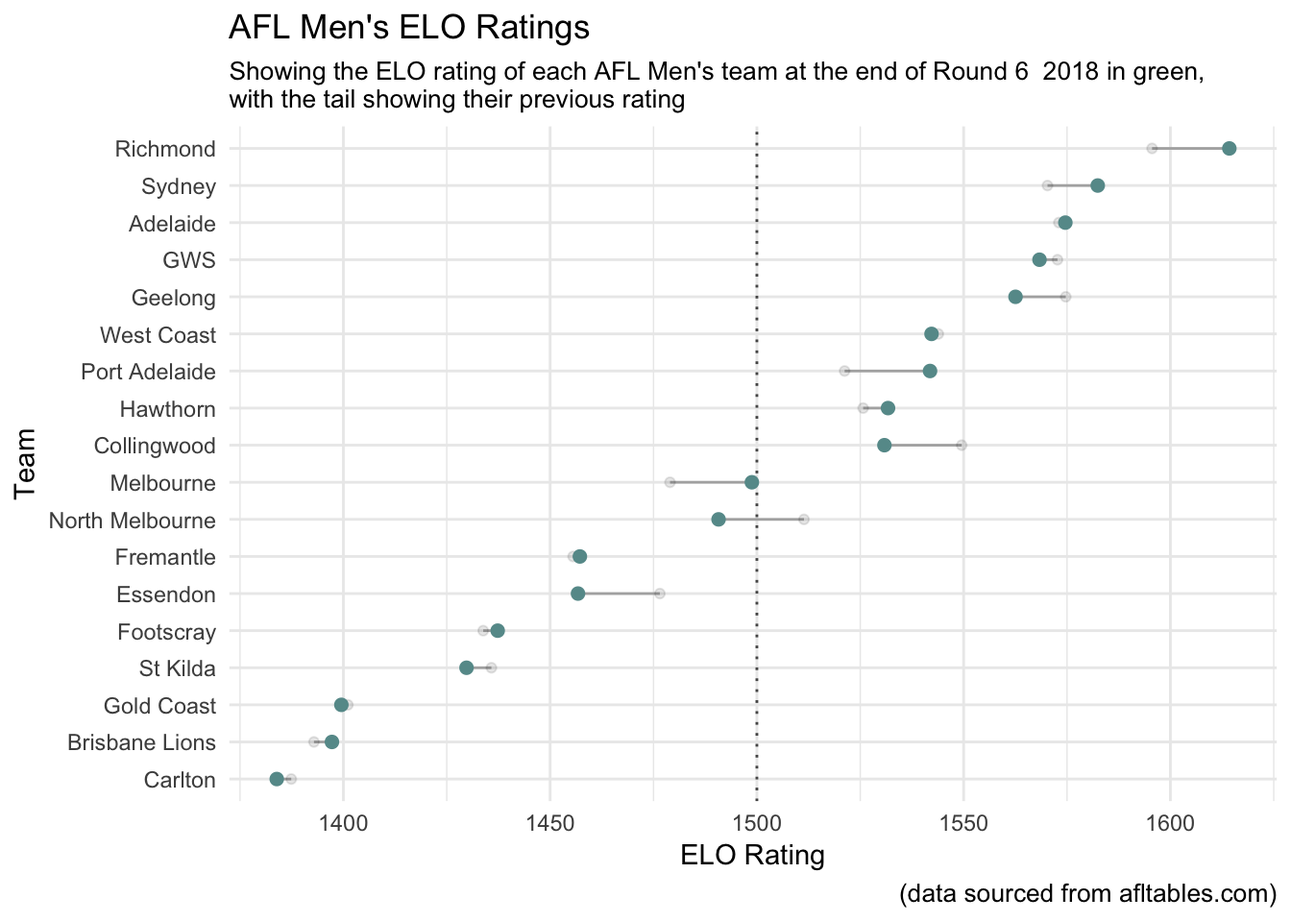
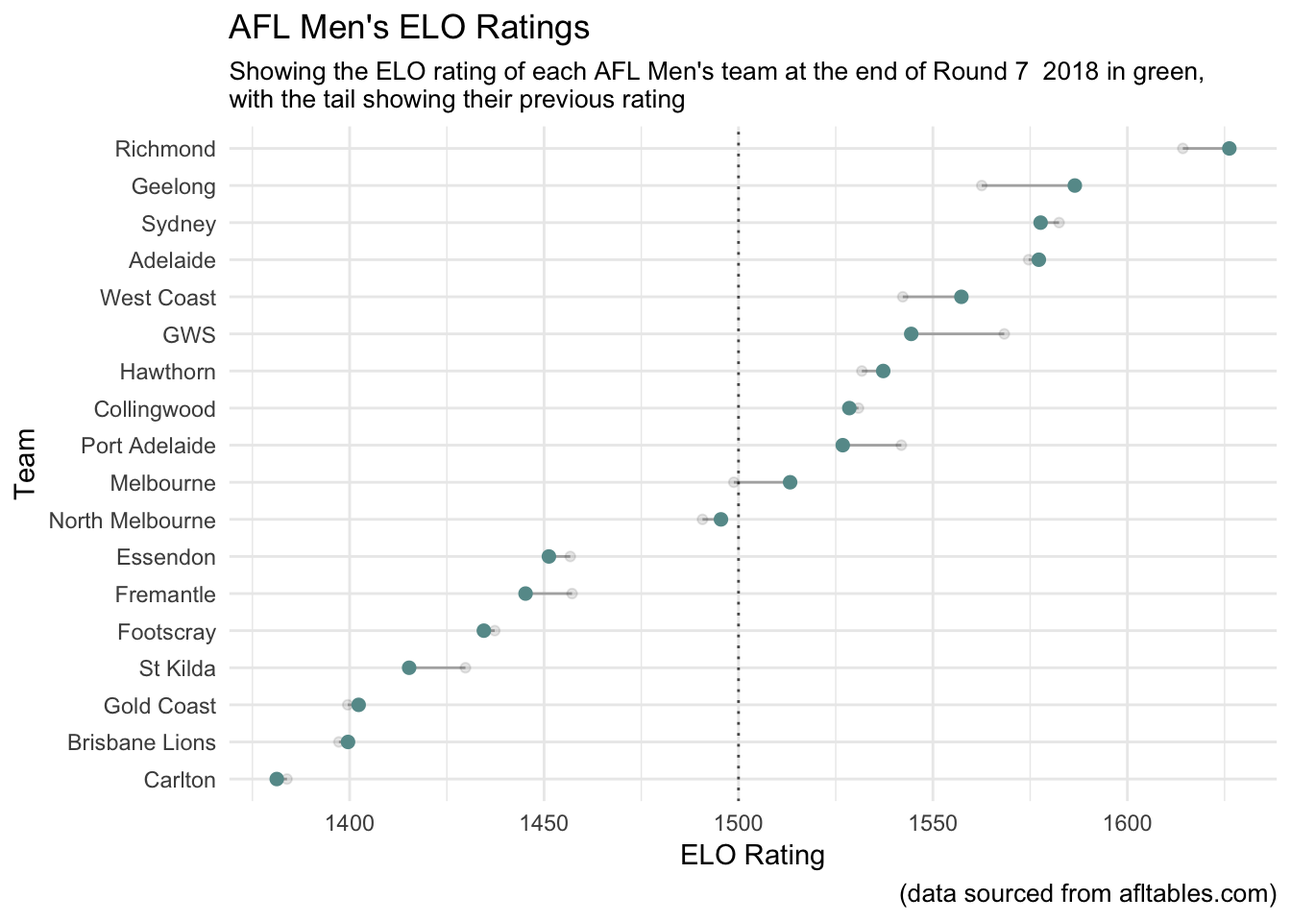
updating plots after round 7

diff --git a/static/page/aflm-ratings-and-simulations_files/figure-html/widgets/widget_formattable.html b/static/page/aflm-ratings-and-simulations_files/figure-html/widgets/widget_formattable.html
@@ -16,12 +16,12 @@
 </head>
 <body style="background-color:white;">
 <div id="htmlwidget_container">
-  <div id="htmlwidget-a8200a8e03ef808022fb" style="width:95%;height:700px;" class="datatables html-widget"></div>
+  <div id="htmlwidget-7157525cb1153722101e" style="width:95%;height:700px;" class="datatables html-widget"></div>
   <script>HTMLWidgets.pymChild = new pym.Child();HTMLWidgets.addPostRenderHandler(function(){
                                 setTimeout(function(){HTMLWidgets.pymChild.sendHeight();},100);
                             });</script>
 </div>
-<script type="application/json" data-for="htmlwidget-a8200a8e03ef808022fb">{"x":{"filter":"none","data":[["1","2","3","4","5","6","7","8","9","10","11","12","13","14","15","16","17","18"],["Richmond       ","Sydney         ","Adelaide       ","GWS            ","Hawthorn       ","Port Adelaide  ","West Coast     ","Geelong        ","Collingwood    ","Melbourne      ","North Melbourne","Fremantle      ","Essendon       ","Footscray      ","Gold Coast     ","St Kilda       ","Brisbane Lions ","Carlton        "],["<span style=\"display: inline-block; direction: rtl; border-radius: 4px; padding-right: 2px; background-color: rgba(32, 178, 170, 0.5); width: 100.00%\">1614<\/span>","<span style=\"display: inline-block; direction: rtl; border-radius: 4px; padding-right: 2px; background-color: rgba(32, 178, 170, 0.5); width: 86.15%\">1582<\/span> ","<span style=\"display: inline-block; direction: rtl; border-radius: 4px; padding-right: 2px; background-color: rgba(32, 178, 170, 0.5); width: 82.68%\">1574<\/span> ","<span style=\"display: inline-block; direction: rtl; border-radius: 4px; padding-right: 2px; background-color: rgba(32, 178, 170, 0.5); width: 80.09%\">1568<\/span> ","<span style=\"display: inline-block; direction: rtl; border-radius: 4px; padding-right: 2px; background-color: rgba(32, 178, 170, 0.5); width: 64.07%\">1531<\/span> ","<span style=\"display: inline-block; direction: rtl; border-radius: 4px; padding-right: 2px; background-color: rgba(32, 178, 170, 0.5); width: 68.40%\">1541<\/span> ","<span style=\"display: inline-block; direction: rtl; border-radius: 4px; padding-right: 2px; background-color: rgba(32, 178, 170, 0.5); width: 68.83%\">1542<\/span> ","<span style=\"display: inline-block; direction: rtl; border-radius: 4px; padding-right: 2px; background-color: rgba(32, 178, 170, 0.5); width: 77.49%\">1562<\/span> ","<span style=\"display: inline-block; direction: rtl; border-radius: 4px; padding-right: 2px; background-color: rgba(32, 178, 170, 0.5); width: 63.64%\">1530<\/span> ","<span style=\"display: inline-block; direction: rtl; border-radius: 4px; padding-right: 2px; background-color: rgba(32, 178, 170, 0.5); width: 49.78%\">1498<\/span> ","<span style=\"display: inline-block; direction: rtl; border-radius: 4px; padding-right: 2px; background-color: rgba(32, 178, 170, 0.5); width: 46.32%\">1490<\/span> ","<span style=\"display: inline-block; direction: rtl; border-radius: 4px; padding-right: 2px; background-color: rgba(32, 178, 170, 0.5); width: 32.03%\">1457<\/span> ","<span style=\"display: inline-block; direction: rtl; border-radius: 4px; padding-right: 2px; background-color: rgba(32, 178, 170, 0.5); width: 31.60%\">1456<\/span> ","<span style=\"display: inline-block; direction: rtl; border-radius: 4px; padding-right: 2px; background-color: rgba(32, 178, 170, 0.5); width: 23.38%\">1437<\/span> ","<span style=\"display: inline-block; direction: rtl; border-radius: 4px; padding-right: 2px; background-color: rgba(32, 178, 170, 0.5); width: 6.93%\">1399<\/span>  ","<span style=\"display: inline-block; direction: rtl; border-radius: 4px; padding-right: 2px; background-color: rgba(32, 178, 170, 0.5); width: 19.91%\">1429<\/span> ","<span style=\"display: inline-block; direction: rtl; border-radius: 4px; padding-right: 2px; background-color: rgba(32, 178, 170, 0.5); width: 6.06%\">1397<\/span>  ","<span style=\"display: inline-block; direction: rtl; border-radius: 4px; padding-right: 2px; background-color: rgba(32, 178, 170, 0.5); width: 0.00%\">1383<\/span>  "],["<span style=\"color: green\">18<\/span>","<span style=\"color: green\">12<\/span>","<span style=\"color: green\">1<\/span> ","<span style=\"color: red\">-4<\/span>  ","<span style=\"color: green\">6<\/span> ","<span style=\"color: green\">20<\/span>","<span style=\"color: red\">-1<\/span>  ","<span style=\"color: red\">-12<\/span> ","<span style=\"color: red\">-18<\/span> ","<span style=\"color: green\">19<\/span>","<span style=\"color: red\">-20<\/span> ","<span style=\"color: green\">1<\/span> ","<span style=\"color: red\">-19<\/span> ","<span style=\"color: green\">3<\/span> ","<span style=\"color: red\">-1<\/span>  ","<span style=\"color: red\">-6<\/span>  ","<span style=\"color: green\">4<\/span> ","<span style=\"color: red\">-3<\/span>  "],["18.9","16.3","14.8","14.5","14.5","14.3","14.2","13.9","13.9","11.2","9.5","9.1","7.0","6.8","6.6","6.1","3.3","3.1"],["<span style=\"display: block; padding: 0 4px; border-radius: 4px; background-color: #add8e6\">94.9%<\/span>","<span style=\"display: block; padding: 0 4px; border-radius: 4px; background-color: #b2dae7\">88.9%<\/span>","<span style=\"display: block; padding: 0 4px; border-radius: 4px; background-color: #badee9\">79.9%<\/span>","<span style=\"display: block; padding: 0 4px; border-radius: 4px; background-color: #bcdfea\">76.8%<\/span>","<span style=\"display: block; padding: 0 4px; border-radius: 4px; background-color: #bfe0eb\">73.8%<\/span>","<span style=\"display: block; padding: 0 4px; border-radius: 4px; background-color: #c1e1ec\">71.2%<\/span>","<span style=\"display: block; padding: 0 4px; border-radius: 4px; background-color: #c1e1ec\">71.9%<\/span>","<span style=\"display: block; padding: 0 4px; border-radius: 4px; background-color: #bfe0eb\">74.3%<\/span>","<span style=\"display: block; padding: 0 4px; border-radius: 4px; background-color: #c2e2ec\">70.6%<\/span>","<span style=\"display: block; padding: 0 4px; border-radius: 4px; background-color: #e0f0f5\">36.1%<\/span>","<span style=\"display: block; padding: 0 4px; border-radius: 4px; background-color: #ecf6f9\">22.2%<\/span>","<span style=\"display: block; padding: 0 4px; border-radius: 4px; background-color: #f1f8fa\">16.4%<\/span>","<span style=\"display: block; padding: 0 4px; border-radius: 4px; background-color: #f9fcfd\">7.5%<\/span> ","<span style=\"display: block; padding: 0 4px; border-radius: 4px; background-color: #fafcfd\">5.9%<\/span> ","<span style=\"display: block; padding: 0 4px; border-radius: 4px; background-color: #fdfefe\">2.7%<\/span> ","<span style=\"display: block; padding: 0 4px; border-radius: 4px; background-color: #fbfdfe\">4.7%<\/span> ","<span style=\"display: block; padding: 0 4px; border-radius: 4px; background-color: #fefefe\">1.1%<\/span> ","<span style=\"display: block; padding: 0 4px; border-radius: 4px; background-color: #ffffff\">1.0%<\/span> "],["<span style=\"display: block; padding: 0 4px; border-radius: 4px; background-color: #add8e6\">82.8%<\/span>","<span style=\"display: block; padding: 0 4px; border-radius: 4px; background-color: #c3e2ec\">59.8%<\/span>","<span style=\"display: block; padding: 0 4px; border-radius: 4px; background-color: #d4eaf2\">42.8%<\/span>","<span style=\"display: block; padding: 0 4px; border-radius: 4px; background-color: #dbedf4\">36.2%<\/span>","<span style=\"display: block; padding: 0 4px; border-radius: 4px; background-color: #d8ecf3\">38.4%<\/span>","<span style=\"display: block; padding: 0 4px; border-radius: 4px; background-color: #ddeef4\">34.3%<\/span>","<span style=\"display: block; padding: 0 4px; border-radius: 4px; background-color: #e0f0f5\">30.4%<\/span>","<span style=\"display: block; padding: 0 4px; border-radius: 4px; background-color: #e2f1f6\">29.0%<\/span>","<span style=\"display: block; padding: 0 4px; border-radius: 4px; background-color: #e2f1f6\">28.6%<\/span>","<span style=\"display: block; padding: 0 4px; border-radius: 4px; background-color: #f5fafb\">10.0%<\/span>","<span style=\"display: block; padding: 0 4px; border-radius: 4px; background-color: #fbfdfd\">3.9%<\/span> ","<span style=\"display: block; padding: 0 4px; border-radius: 4px; background-color: #fdfefe\">2.0%<\/span> ","<span style=\"display: block; padding: 0 4px; border-radius: 4px; background-color: #fefefe\">0.9%<\/span> ","<span style=\"display: block; padding: 0 4px; border-radius: 4px; background-color: #fefefe\">0.4%<\/span> ","<span style=\"display: block; padding: 0 4px; border-radius: 4px; background-color: #fefefe\">0.1%<\/span> ","<span style=\"display: block; padding: 0 4px; border-radius: 4px; background-color: #fefefe\">0.4%<\/span> ","<span style=\"display: block; padding: 0 4px; border-radius: 4px; background-color: #fefefe\">0.1%<\/span> ","<span style=\"display: block; padding: 0 4px; border-radius: 4px; background-color: #ffffff\">0.0%<\/span> "],["<span style=\"display: block; padding: 0 4px; border-radius: 4px; background-color: #add8e6\">57.2%<\/span>","<span style=\"display: block; padding: 0 4px; border-radius: 4px; background-color: #eef7fa\">11.4%<\/span>","<span style=\"display: block; padding: 0 4px; border-radius: 4px; background-color: #f7fbfc\">4.9%<\/span> ","<span style=\"display: block; padding: 0 4px; border-radius: 4px; background-color: #f9fcfd\">4.0%<\/span> ","<span style=\"display: block; padding: 0 4px; border-radius: 4px; background-color: #f8fcfd\">4.3%<\/span> ","<span style=\"display: block; padding: 0 4px; border-radius: 4px; background-color: #f7fbfc\">5.1%<\/span> ","<span style=\"display: block; padding: 0 4px; border-radius: 4px; background-color: #f7fbfc\">5.2%<\/span> ","<span style=\"display: block; padding: 0 4px; border-radius: 4px; background-color: #f9fcfd\">4.0%<\/span> ","<span style=\"display: block; padding: 0 4px; border-radius: 4px; background-color: #fbfdfe\">2.1%<\/span> ","<span style=\"display: block; padding: 0 4px; border-radius: 4px; background-color: #fcfdfe\">1.6%<\/span> ","<span style=\"display: block; padding: 0 4px; border-radius: 4px; background-color: #fefefe\">0.1%<\/span> ","<span style=\"display: block; padding: 0 4px; border-radius: 4px; background-color: #fefefe\">0.1%<\/span> ","<span style=\"display: block; padding: 0 4px; border-radius: 4px; background-color: #fefefe\">0.0%<\/span> ","<span style=\"display: block; padding: 0 4px; border-radius: 4px; background-color: #ffffff\">0.0%<\/span> ","<span style=\"display: block; padding: 0 4px; border-radius: 4px; background-color: #ffffff\">0.0%<\/span> ","<span style=\"display: block; padding: 0 4px; border-radius: 4px; background-color: #fefefe\">0.0%<\/span> ","<span style=\"display: block; padding: 0 4px; border-radius: 4px; background-color: #ffffff\">0.0%<\/span> ","<span style=\"display: block; padding: 0 4px; border-radius: 4px; background-color: #ffffff\">0.0%<\/span> "]],"container":"<table class=\"display\">\n  <thead>\n    <tr>\n      <th> <\/th>\n      <th>Team<\/th>\n      <th>ELO<\/th>\n      <th>ELO.change<\/th>\n      <th>Wins<\/th>\n      <th>Top.8<\/th>\n      <th>Top.4<\/th>\n      <th>Top.1<\/th>\n    <\/tr>\n  <\/thead>\n<\/table>","options":{"dom":"t","pageLength":18,"order":[],"autoWidth":false,"orderClasses":false,"columnDefs":[{"orderable":false,"targets":0}],"lengthMenu":[10,18,25,50,100]}},"evals":[],"jsHooks":[]}</script>
-<script type="application/htmlwidget-sizing" data-for="htmlwidget-a8200a8e03ef808022fb">{"viewer":{"width":"95%","height":700,"padding":0,"fill":false},"browser":{"width":"95%","height":700,"padding":0,"fill":false}}</script>
+<script type="application/json" data-for="htmlwidget-7157525cb1153722101e">{"x":{"filter":"none","data":[["1","2","3","4","5","6","7","8","9","10","11","12","13","14","15","16","17","18"],["Richmond       ","West Coast     ","Hawthorn       ","Geelong        ","Sydney         ","Adelaide       ","Collingwood    ","Port Adelaide  ","GWS            ","Melbourne      ","North Melbourne","Fremantle      ","Footscray      ","Gold Coast     ","Essendon       ","St Kilda       ","Carlton        ","Brisbane Lions "],["<span style=\"display: inline-block; direction: rtl; border-radius: 4px; padding-right: 2px; background-color: rgba(32, 178, 170, 0.5); width: 100.00%\">1626<\/span>","<span style=\"display: inline-block; direction: rtl; border-radius: 4px; padding-right: 2px; background-color: rgba(32, 178, 170, 0.5); width: 71.84%\">1557<\/span> ","<span style=\"display: inline-block; direction: rtl; border-radius: 4px; padding-right: 2px; background-color: rgba(32, 178, 170, 0.5); width: 63.67%\">1537<\/span> ","<span style=\"display: inline-block; direction: rtl; border-radius: 4px; padding-right: 2px; background-color: rgba(32, 178, 170, 0.5); width: 83.67%\">1586<\/span> ","<span style=\"display: inline-block; direction: rtl; border-radius: 4px; padding-right: 2px; background-color: rgba(32, 178, 170, 0.5); width: 80.00%\">1577<\/span> ","<span style=\"display: inline-block; direction: rtl; border-radius: 4px; padding-right: 2px; background-color: rgba(32, 178, 170, 0.5); width: 80.00%\">1577<\/span> ","<span style=\"display: inline-block; direction: rtl; border-radius: 4px; padding-right: 2px; background-color: rgba(32, 178, 170, 0.5); width: 60.00%\">1528<\/span> ","<span style=\"display: inline-block; direction: rtl; border-radius: 4px; padding-right: 2px; background-color: rgba(32, 178, 170, 0.5); width: 59.18%\">1526<\/span> ","<span style=\"display: inline-block; direction: rtl; border-radius: 4px; padding-right: 2px; background-color: rgba(32, 178, 170, 0.5); width: 66.53%\">1544<\/span> ","<span style=\"display: inline-block; direction: rtl; border-radius: 4px; padding-right: 2px; background-color: rgba(32, 178, 170, 0.5); width: 53.88%\">1513<\/span> ","<span style=\"display: inline-block; direction: rtl; border-radius: 4px; padding-right: 2px; background-color: rgba(32, 178, 170, 0.5); width: 46.53%\">1495<\/span> ","<span style=\"display: inline-block; direction: rtl; border-radius: 4px; padding-right: 2px; background-color: rgba(32, 178, 170, 0.5); width: 26.12%\">1445<\/span> ","<span style=\"display: inline-block; direction: rtl; border-radius: 4px; padding-right: 2px; background-color: rgba(32, 178, 170, 0.5); width: 21.63%\">1434<\/span> ","<span style=\"display: inline-block; direction: rtl; border-radius: 4px; padding-right: 2px; background-color: rgba(32, 178, 170, 0.5); width: 8.57%\">1402<\/span>  ","<span style=\"display: inline-block; direction: rtl; border-radius: 4px; padding-right: 2px; background-color: rgba(32, 178, 170, 0.5); width: 28.57%\">1451<\/span> ","<span style=\"display: inline-block; direction: rtl; border-radius: 4px; padding-right: 2px; background-color: rgba(32, 178, 170, 0.5); width: 13.88%\">1415<\/span> ","<span style=\"display: inline-block; direction: rtl; border-radius: 4px; padding-right: 2px; background-color: rgba(32, 178, 170, 0.5); width: 0.00%\">1381<\/span>  ","<span style=\"display: inline-block; direction: rtl; border-radius: 4px; padding-right: 2px; background-color: rgba(32, 178, 170, 0.5); width: 7.35%\">1399<\/span>  "],["<span style=\"color: green\">11<\/span>","<span style=\"color: green\">15<\/span>","<span style=\"color: green\">5<\/span> ","<span style=\"color: green\">23<\/span>","<span style=\"color: red\">-4<\/span>  ","<span style=\"color: green\">2<\/span> ","<span style=\"color: red\">-2<\/span>  ","<span style=\"color: red\">-15<\/span> ","<span style=\"color: red\">-23<\/span> ","<span style=\"color: green\">14<\/span>","<span style=\"color: green\">4<\/span> ","<span style=\"color: red\">-11<\/span> ","<span style=\"color: red\">-2<\/span>  ","<span style=\"color: green\">2<\/span> ","<span style=\"color: red\">-5<\/span>  ","<span style=\"color: red\">-14<\/span> ","<span style=\"color: red\">-2<\/span>  ","<span style=\"color: green\">2<\/span> "],["19.5","15.3","15.1","15.0","15.0","15.0","13.8","13.4","13.2","12.0","10.8","8.7","6.7","6.6","6.4","5.2","3.3","3.2"],["<span style=\"display: block; padding: 0 4px; border-radius: 4px; background-color: #add8e6\">97.4%<\/span>","<span style=\"display: block; padding: 0 4px; border-radius: 4px; background-color: #badeea\">81.8%<\/span>","<span style=\"display: block; padding: 0 4px; border-radius: 4px; background-color: #bbdfea\">79.9%<\/span>","<span style=\"display: block; padding: 0 4px; border-radius: 4px; background-color: #b6dce8\">86.5%<\/span>","<span style=\"display: block; padding: 0 4px; border-radius: 4px; background-color: #bbdeea\">80.1%<\/span>","<span style=\"display: block; padding: 0 4px; border-radius: 4px; background-color: #bbdfea\">79.7%<\/span>","<span style=\"display: block; padding: 0 4px; border-radius: 4px; background-color: #c4e3ed\">69.6%<\/span>","<span style=\"display: block; padding: 0 4px; border-radius: 4px; background-color: #cae6ef\">62.3%<\/span>","<span style=\"display: block; padding: 0 4px; border-radius: 4px; background-color: #cbe6ef\">60.8%<\/span>","<span style=\"display: block; padding: 0 4px; border-radius: 4px; background-color: #dbeef4\">42.3%<\/span>","<span style=\"display: block; padding: 0 4px; border-radius: 4px; background-color: #e2f1f6\">34.1%<\/span>","<span style=\"display: block; padding: 0 4px; border-radius: 4px; background-color: #f5fafc\">12.1%<\/span>","<span style=\"display: block; padding: 0 4px; border-radius: 4px; background-color: #fbfdfd\">4.8%<\/span> ","<span style=\"display: block; padding: 0 4px; border-radius: 4px; background-color: #fefefe\">1.7%<\/span> ","<span style=\"display: block; padding: 0 4px; border-radius: 4px; background-color: #fcfdfe\">3.7%<\/span> ","<span style=\"display: block; padding: 0 4px; border-radius: 4px; background-color: #fefefe\">1.7%<\/span> ","<span style=\"display: block; padding: 0 4px; border-radius: 4px; background-color: #fefefe\">1.0%<\/span> ","<span style=\"display: block; padding: 0 4px; border-radius: 4px; background-color: #ffffff\">0.5%<\/span> "],["<span style=\"display: block; padding: 0 4px; border-radius: 4px; background-color: #add8e6\">88.3%<\/span>","<span style=\"display: block; padding: 0 4px; border-radius: 4px; background-color: #d7ecf3\">42.0%<\/span>","<span style=\"display: block; padding: 0 4px; border-radius: 4px; background-color: #d5ebf2\">45.1%<\/span>","<span style=\"display: block; padding: 0 4px; border-radius: 4px; background-color: #d7ecf2\">42.9%<\/span>","<span style=\"display: block; padding: 0 4px; border-radius: 4px; background-color: #d6ebf2\">43.4%<\/span>","<span style=\"display: block; padding: 0 4px; border-radius: 4px; background-color: #d3eaf1\">46.8%<\/span>","<span style=\"display: block; padding: 0 4px; border-radius: 4px; background-color: #e5f3f7\">27.0%<\/span>","<span style=\"display: block; padding: 0 4px; border-radius: 4px; background-color: #e8f4f8\">24.5%<\/span>","<span style=\"display: block; padding: 0 4px; border-radius: 4px; background-color: #eaf5f8\">21.6%<\/span>","<span style=\"display: block; padding: 0 4px; border-radius: 4px; background-color: #f5fafc\">10.1%<\/span>","<span style=\"display: block; padding: 0 4px; border-radius: 4px; background-color: #f9fcfd\">6.2%<\/span> ","<span style=\"display: block; padding: 0 4px; border-radius: 4px; background-color: #fdfefe\">1.4%<\/span> ","<span style=\"display: block; padding: 0 4px; border-radius: 4px; background-color: #fefefe\">0.3%<\/span> ","<span style=\"display: block; padding: 0 4px; border-radius: 4px; background-color: #fefefe\">0.0%<\/span> ","<span style=\"display: block; padding: 0 4px; border-radius: 4px; background-color: #fefefe\">0.3%<\/span> ","<span style=\"display: block; padding: 0 4px; border-radius: 4px; background-color: #fefefe\">0.1%<\/span> ","<span style=\"display: block; padding: 0 4px; border-radius: 4px; background-color: #fefefe\">0.0%<\/span> ","<span style=\"display: block; padding: 0 4px; border-radius: 4px; background-color: #ffffff\">0.0%<\/span> "],["<span style=\"display: block; padding: 0 4px; border-radius: 4px; background-color: #add8e6\">65.2%<\/span>","<span style=\"display: block; padding: 0 4px; border-radius: 4px; background-color: #f5fafc\">7.7%<\/span> ","<span style=\"display: block; padding: 0 4px; border-radius: 4px; background-color: #f9fcfd\">4.6%<\/span> ","<span style=\"display: block; padding: 0 4px; border-radius: 4px; background-color: #f6fbfc\">6.7%<\/span> ","<span style=\"display: block; padding: 0 4px; border-radius: 4px; background-color: #f9fcfd\">4.8%<\/span> ","<span style=\"display: block; padding: 0 4px; border-radius: 4px; background-color: #f8fbfd\">5.2%<\/span> ","<span style=\"display: block; padding: 0 4px; border-radius: 4px; background-color: #fcfdfe\">1.7%<\/span> ","<span style=\"display: block; padding: 0 4px; border-radius: 4px; background-color: #fcfdfe\">1.9%<\/span> ","<span style=\"display: block; padding: 0 4px; border-radius: 4px; background-color: #fdfefe\">0.9%<\/span> ","<span style=\"display: block; padding: 0 4px; border-radius: 4px; background-color: #fdfefe\">1.2%<\/span> ","<span style=\"display: block; padding: 0 4px; border-radius: 4px; background-color: #fefefe\">0.1%<\/span> ","<span style=\"display: block; padding: 0 4px; border-radius: 4px; background-color: #fefefe\">0.0%<\/span> ","<span style=\"display: block; padding: 0 4px; border-radius: 4px; background-color: #ffffff\">0.0%<\/span> ","<span style=\"display: block; padding: 0 4px; border-radius: 4px; background-color: #ffffff\">0.0%<\/span> ","<span style=\"display: block; padding: 0 4px; border-radius: 4px; background-color: #fefefe\">0.0%<\/span> ","<span style=\"display: block; padding: 0 4px; border-radius: 4px; background-color: #ffffff\">0.0%<\/span> ","<span style=\"display: block; padding: 0 4px; border-radius: 4px; background-color: #ffffff\">0.0%<\/span> ","<span style=\"display: block; padding: 0 4px; border-radius: 4px; background-color: #ffffff\">0.0%<\/span> "]],"container":"<table class=\"display\">\n  <thead>\n    <tr>\n      <th> <\/th>\n      <th>Team<\/th>\n      <th>ELO<\/th>\n      <th>ELO.change<\/th>\n      <th>Wins<\/th>\n      <th>Top.8<\/th>\n      <th>Top.4<\/th>\n      <th>Top.1<\/th>\n    <\/tr>\n  <\/thead>\n<\/table>","options":{"dom":"t","pageLength":18,"order":[],"autoWidth":false,"orderClasses":false,"columnDefs":[{"orderable":false,"targets":0}],"lengthMenu":[10,18,25,50,100]}},"evals":[],"jsHooks":[]}</script>
+<script type="application/htmlwidget-sizing" data-for="htmlwidget-7157525cb1153722101e">{"viewer":{"width":"95%","height":700,"padding":0,"fill":false},"browser":{"width":"95%","height":700,"padding":0,"fill":false}}</script>
 </body>
 </html>

diff --git a/content/page/aflm-current-tips.html b/content/page/aflm-current-tips.html
@@ -41,45 +41,160 @@ Result
 <tbody>
 <tr>
 <td style="text-align:right;">
-Fri, 04
+Fri, 11
 </td>
 <td style="text-align:right;">
-Kardinia Park
+M.C.G.
 </td>
 <td style="text-align:right;">
-<span style="font-weight: bold">Geelong </span>
+<span style="font-weight: bold">Hawthorn </span>
 </td>
 <td style="text-align:right;">
-<span>GWS </span>
+<span>Sydney </span>
 </td>
 <td style="text-align:right;">
-10
+3
 </td>
 <td style="text-align:right;">
-57.2%
+52.0%
 </td>
 <td style="text-align:right;">
-Geelong by 10
+Hawthorn by 3
 </td>
 </tr>
 <tr>
 <td style="text-align:right;">
-Sat, 05
+Sat, 12
 </td>
 <td style="text-align:right;">
-Eureka Stadium
+Blacktown
 </td>
 <td style="text-align:right;">
-<span style="font-weight: bold">Footscray </span>
+<span style="font-weight: bold">GWS </span>
+</td>
+<td style="text-align:right;">
+<span>West Coast </span>
+</td>
+<td style="text-align:right;">
+8
+</td>
+<td style="text-align:right;">
+55.6%
+</td>
+<td style="text-align:right;">
+GWS by 8
+</td>
+</tr>
+<tr>
+<td style="text-align:right;">
+Sat, 12
+</td>
+<td style="text-align:right;">
+M.C.G.
+</td>
+<td style="text-align:right;">
+<span>Carlton </span>
+</td>
+<td style="text-align:right;">
+<span style="font-weight: bold">Essendon </span>
+</td>
+<td style="text-align:right;">
+-9
+</td>
+<td style="text-align:right;">
+42.9%
+</td>
+<td style="text-align:right;">
+Essendon by 9
+</td>
+</tr>
+<tr>
+<td style="text-align:right;">
+Sat, 12
+</td>
+<td style="text-align:right;">
+Gabba
 </td>
 <td style="text-align:right;">
 <span>Gold Coast </span>
 </td>
 <td style="text-align:right;">
+<span style="font-weight: bold">Melbourne </span>
+</td>
+<td style="text-align:right;">
+-10
+</td>
+<td style="text-align:right;">
+41.9%
+</td>
+<td style="text-align:right;">
+Melbourne by 10
+</td>
+</tr>
+<tr>
+<td style="text-align:right;">
+Sat, 12
+</td>
+<td style="text-align:right;">
+Adelaide Oval
+</td>
+<td style="text-align:right;">
+<span>Port Adelaide </span>
+</td>
+<td style="text-align:right;">
+<span style="font-weight: bold">Adelaide </span>
+</td>
+<td style="text-align:right;">
+-5
+</td>
+<td style="text-align:right;">
+45.6%
+</td>
+<td style="text-align:right;">
+Adelaide by 5
+</td>
+</tr>
+<tr>
+<td style="text-align:right;">
+Sat, 12
+</td>
+<td style="text-align:right;">
+Perth Stadium
+</td>
+<td style="text-align:right;">
+<span style="font-weight: bold">Fremantle </span>
+</td>
+<td style="text-align:right;">
+<span>St Kilda </span>
+</td>
+<td style="text-align:right;">
+17
+</td>
+<td style="text-align:right;">
+61.9%
+</td>
+<td style="text-align:right;">
+Fremantle by 17
+</td>
+</tr>
+<tr>
+<td style="text-align:right;">
+Sat, 12
+</td>
+<td style="text-align:right;">
+Docklands
+</td>
+<td style="text-align:right;">
+<span style="font-weight: bold">Footscray </span>
+</td>
+<td style="text-align:right;">
+<span>Brisbane Lions</span>
+</td>
+<td style="text-align:right;">
 18
 </td>
 <td style="text-align:right;">
-62.8%
+62.5%
 </td>
 <td style="text-align:right;">
 Footscray by 18
@@ -87,163 +202,48 @@ Footscray by 18
 </tr>
 <tr>
 <td style="text-align:right;">
-Sat, 05
-</td>
-<td style="text-align:right;">
-M.C.G.
-</td>
-<td style="text-align:right;">
-<span>Essendon </span>
-</td>
-<td style="text-align:right;">
-<span style="font-weight: bold">Hawthorn </span>
-</td>
-<td style="text-align:right;">
--10
-</td>
-<td style="text-align:right;">
-42.1%
-</td>
-<td style="text-align:right;">
-Hawthorn by 10
-</td>
-</tr>
-<tr>
-<td style="text-align:right;">
-Sat, 05
-</td>
-<td style="text-align:right;">
-Perth Stadium
-</td>
-<td style="text-align:right;">
-<span style="font-weight: bold">West Coast </span>
-</td>
-<td style="text-align:right;">
-<span>Port Adelaide </span>
-</td>
-<td style="text-align:right;">
-11
-</td>
-<td style="text-align:right;">
-57.9%
-</td>
-<td style="text-align:right;">
-West Coast by 11
-</td>
-</tr>
-<tr>
-<td style="text-align:right;">
-Sat, 05
-</td>
-<td style="text-align:right;">
-Adelaide Oval
-</td>
-<td style="text-align:right;">
-<span style="font-weight: bold">Adelaide </span>
-</td>
-<td style="text-align:right;">
-<span>Carlton </span>
-</td>
-<td style="text-align:right;">
-48
-</td>
-<td style="text-align:right;">
-80.6%
-</td>
-<td style="text-align:right;">
-Adelaide by 48
-</td>
-</tr>
-<tr>
-<td style="text-align:right;">
-Sat, 05
-</td>
-<td style="text-align:right;">
-S.C.G.
-</td>
-<td style="text-align:right;">
-<span style="font-weight: bold">Sydney </span>
-</td>
-<td style="text-align:right;">
-<span>North Melbourne</span>
-</td>
-<td style="text-align:right;">
-29
-</td>
-<td style="text-align:right;">
-70.1%
-</td>
-<td style="text-align:right;">
-Sydney by 29
-</td>
-</tr>
-<tr>
-<td style="text-align:right;">
-Sun, 06
-</td>
-<td style="text-align:right;">
-M.C.G.
-</td>
-<td style="text-align:right;">
-<span style="font-weight: bold">Richmond </span>
-</td>
-<td style="text-align:right;">
-<span>Fremantle </span>
-</td>
-<td style="text-align:right;">
-41
-</td>
-<td style="text-align:right;">
-77.2%
-</td>
-<td style="text-align:right;">
-Richmond by 41
-</td>
-</tr>
-<tr>
-<td style="text-align:right;">
-Sun, 06
+Sun, 13
 </td>
 <td style="text-align:right;">
 Docklands
 </td>
 <td style="text-align:right;">
-<span>St Kilda </span>
+<span>North Melbourne</span>
 </td>
 <td style="text-align:right;">
-<span style="font-weight: bold">Melbourne </span>
+<span style="font-weight: bold">Richmond </span>
 </td>
 <td style="text-align:right;">
--8
+-20
 </td>
 <td style="text-align:right;">
-43.3%
+34.9%
 </td>
 <td style="text-align:right;">
-Melbourne by 8
+Richmond by 20
 </td>
 </tr>
 <tr>
 <td style="text-align:right;">
-Sun, 06
+Sun, 13
 </td>
 <td style="text-align:right;">
-Gabba
+M.C.G.
 </td>
 <td style="text-align:right;">
-<span>Brisbane Lions</span>
+<span>Collingwood </span>
 </td>
 <td style="text-align:right;">
-<span style="font-weight: bold">Collingwood </span>
+<span style="font-weight: bold">Geelong </span>
 </td>
 <td style="text-align:right;">
--14
+-6
 </td>
 <td style="text-align:right;">
-39.1%
+44.8%
 </td>
 <td style="text-align:right;">
-Collingwood by 14
+Geelong by 6
 </td>
 </tr>
 </tbody>

diff --git a/content/page/aflm-ratings-and-simulations.html b/content/page/aflm-ratings-and-simulations.html
@@ -15,7 +15,7 @@ tags: []
 
 
 <p>Welcome to our all new AFL Men’s ratings and tips page! Here you will the latest ratings, tips for the upcoming rounds and any simulations that have been done. I’ll usually aim to update these early in the week to give you time to digest Any questions, let me know on Twitter!</p>
-<p>Last updated: 2018-04-30.</p>
+<p>Last updated: 2018-05-07.</p>
 <div id="summary" class="section level2">
 <h2>Summary</h2>
 <p>Below are the updated AFL Men’s ratings and simulations. These are based off our ELO model (insert explainer) and simulations (insert explainer).</p>
@@ -39,6 +39,12 @@ frameWidget(dt_elo, height = 700, width = &quot;95%&quot;)</code></pre>
 <div id="htmlwidget-1" style="width:95%;height:700px;" class="widgetframe html-widget"></div>
 <script type="application/json" data-for="htmlwidget-1">{"x":{"url":"/page/aflm-ratings-and-simulations_files/figure-html//widgets/widget_formattable.html","options":{"xdomain":"*","allowfullscreen":false,"lazyload":false}},"evals":[],"jsHooks":[]}</script>
 <p>And below you can see the change in ratings for each team.</p>
-<p><img src="/page/aflm-ratings-and-simulations_files/figure-html/ratings-plot-1.png" width="672" /> # Simulations In order to get our Top 8, Top 4 and Top 1 probabilities, we simulate the season 50 000 times. This has been optimised considerably this year (code to come) which is nice. The following plot shows a ridgegraph of the number of wins of each team in those simulations.</p>
+<p><img src="/page/aflm-ratings-and-simulations_files/figure-html/ratings-plot-1.png" width="672" /></p>
+</div>
+<div id="simulations" class="section level1">
+<h1>Simulations</h1>
+<p>In order to get our Top 8, Top 4 and Top 1 probabilities, we simulate the season 50 000 times. This has been optimised considerably this year (code to come) which is nice. The following plot shows a ridgegraph of the number of wins of each team in those simulations.</p>
 <p><img src="/page/aflm-ratings-and-simulations_files/figure-html/sims-plot-1.png" width="672" /></p>
+<p>And below we show the probability of each team finishing at each ladder position in a heatmap.</p>
+<p><img src="/page/aflm-ratings-and-simulations_files/figure-html/sim_plotr-1.png" width="672" /></p>
 </div>
